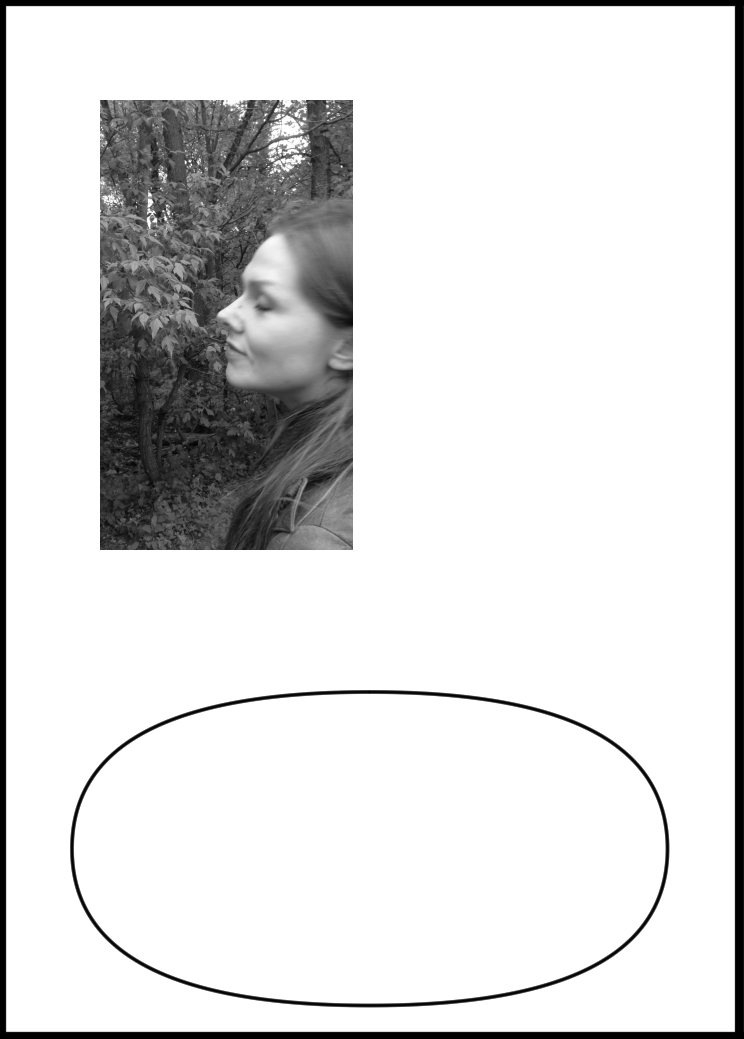
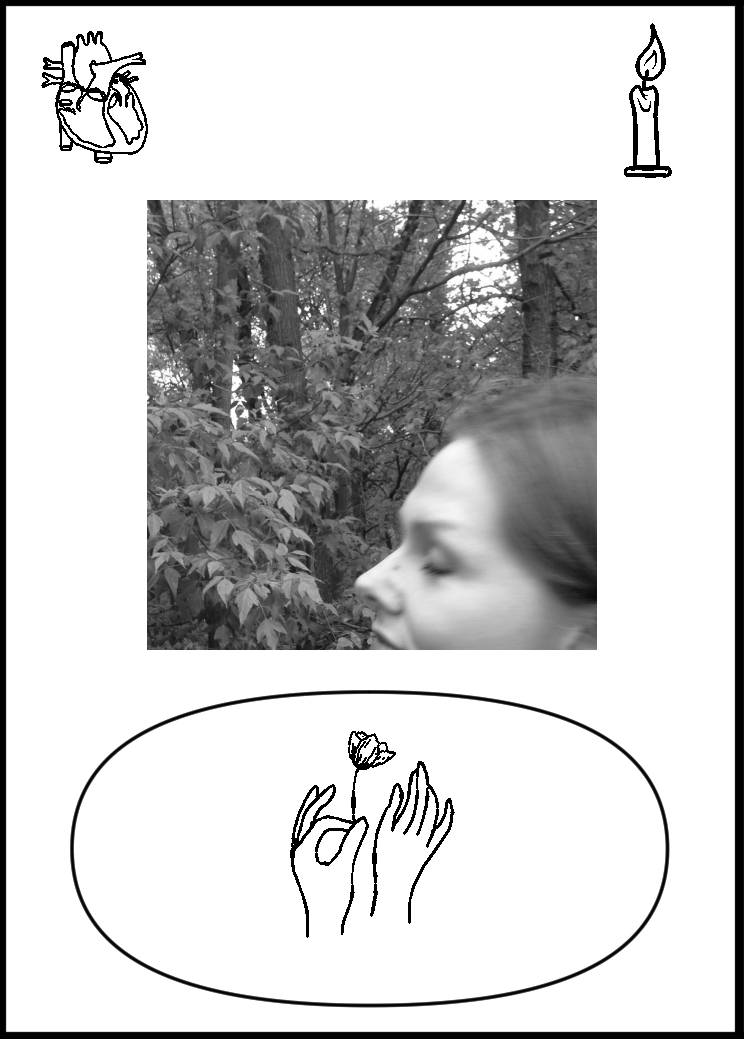
implement randomly generated suits

diff --git a/routes/furnace.js b/routes/furnace.js
@@ -10,35 +10,65 @@ let template = "./image-processing/assets/major-template.jpg";
 let hand = "./image-processing/assets/hands/one.jpg";
 let imgExport = "./image-processing/exports/export.jpg";
 
-
 const upload = multer();
 router.post("/", RandomGenerator(), upload.single("file"), (req, res, next) => {
-  console.log(res.locals.hi,res.locals.randomSuits,res.locals.randomHand);
-  Jimp.read(template).then((card) => {
-    Jimp.read(req.file.buffer)
-      .then((pic) => {
-        return pic
-          .cover(
-            450,
-            450,
-            Jimp.HORIZONTAL_ALIGN_CENTER,
-            Jimp.VERTICAL_ALIGN_MIDDLE
-          )
-          .quality(100)
-          .greyscale();
-      })
-      .then((pic) => {
-        return card
-          .composite(pic, 147, 200, [Jimp.BLEND_DESTINATION_OVER])
-          .write(`./image-processing/exports/${req.file.originalname}`);
-      })
+  // console.log(res.locals.hi,res.locals.randomSuits,res.locals.randomHand);
+  const hand = res.locals.randomHand;
+  const suitOne = res.locals.randomSuits[0];
+  const suitTwo = res.locals.randomSuits[1];
+  Jimp.read(template)
+    .then((card) => {
+      Jimp.read(req.file.buffer)
+        .then((pic) => {
+          return pic
+            .cover(
+              450,
+              450,
+              Jimp.HORIZONTAL_ALIGN_CENTER,
+              Jimp.VERTICAL_ALIGN_MIDDLE
+            )
+            .quality(100)
+            .greyscale();
+        })
+        .then((pic) => {
+          return card.composite(pic, 147, 200, [Jimp.BLEND_DESTINATION_OVER]);
+          // .write(`./image-processing/exports/${req.file.originalname}`);
+        })
+        .then((card) => {
+          Jimp.read(hand)
+            .then((hand) => {
+              return card.composite(hand, 276, 720, [
+                Jimp.BLEND_DESTINATION_OVER,
+              ]);
+              // .composite(suitOne, 15, 15, [Jimp.BLEND_DESTINATION_OVER])
+              // .composite(suitTwo, 565, 15, [Jimp.BLEND_DESTINATION_OVER])
+              // .write(`./image-processing/exports/${req.file.originalname}`);
+            })
+            .then((card) => {
+              Jimp.read(suitOne)
+                .then((s1) => {
+                  return card.composite(s1, 15, 15, [
+                    Jimp.BLEND_DESTINATION_OVER,
+                  ]);
+                })
+                .then((card) => {
+                  Jimp.read(suitTwo).then((s2) => {
+                    return card
+                      .composite(s2, 565, 15, [Jimp.BLEND_DESTINATION_OVER])
+                      .write(
+                        `./image-processing/exports/${req.file.originalname}`
+                      );
+                  });
+                });
+            });
+        });
       // .then(() => {
       //   res.status(200).json(req.file);
       // })
-  })
-  .catch((err) => {
-    console.log(err);
-  });
+    })
+    .catch((err) => {
+      console.log(err);
+    });
 });
 
 module.exports = router;
